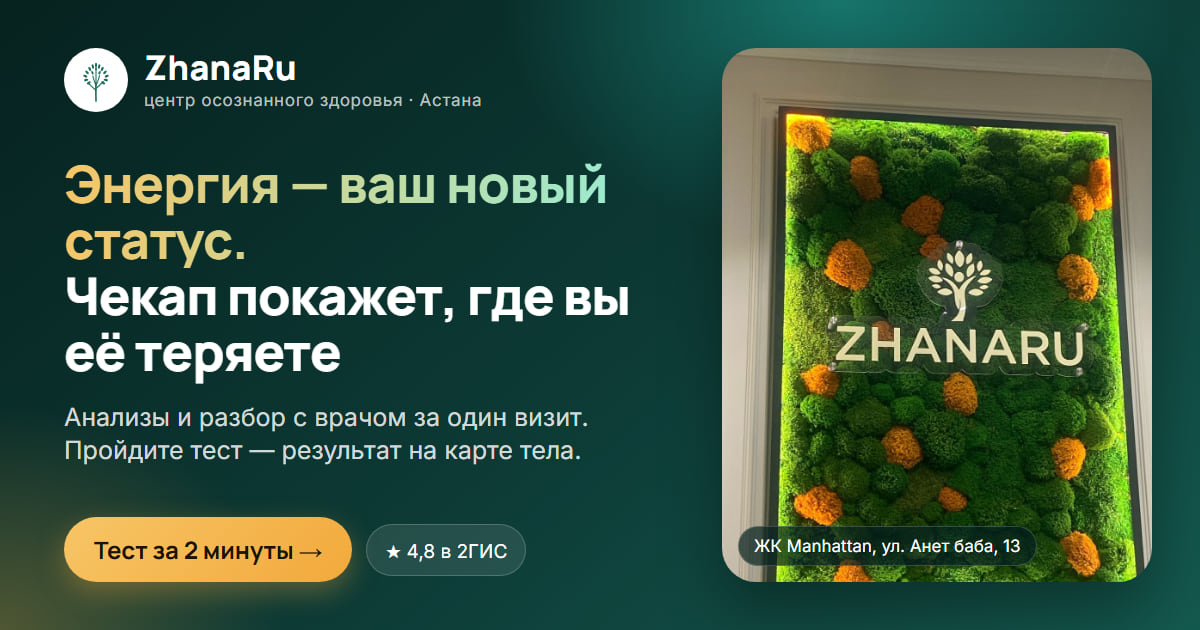
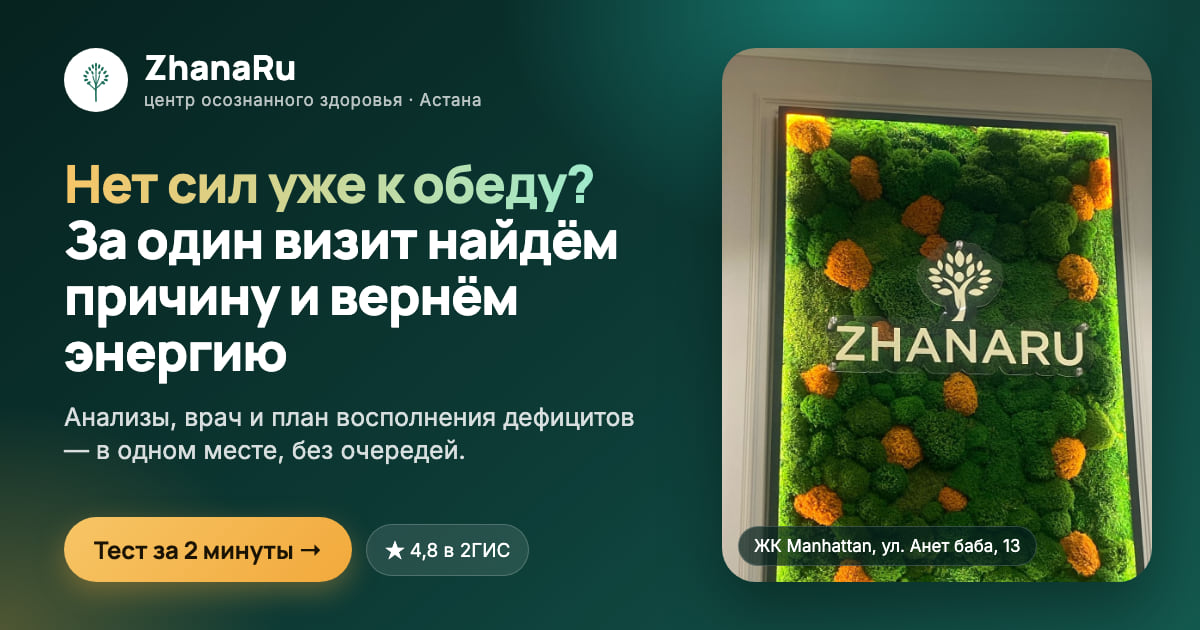
ZhanaRu: новая обложка для предпросмотра ссылки
JPG 1200×630 с новым заголовком первого экрана; ?v=2 в og:image,
чтобы Facebook и мессенджеры сбросили старую картинку из кеша.

diff --git a/Zhanaru/web/src/content/site.ts b/Zhanaru/web/src/content/site.ts
@@ -60,8 +60,9 @@ export const site = {
   verification: { google: '', yandex: '' },
 
   /** Обложка для предпросмотра ссылки (JPG 1200×630, scripts/make-og.mjs). */
-  ogImage: '/og/zhanaru-cover.jpg',
-  ogImageAlt: 'ZhanaRu, Астана: «Энергия — ваш новый статус. Чекап покажет, где вы её теряете»',
+  // ?v= меняется вместе с картинкой, чтобы Facebook и мессенджеры не показывали старую из кеша
+  ogImage: '/og/zhanaru-cover.jpg?v=2',
+  ogImageAlt: 'ZhanaRu, Астана: «Нет сил уже к обеду? За один визит найдём причину и вернём энергию»',
 
   /** ID счётчиков. Пустая строка — счётчик не загружается. */
   analytics: { ga4: '', metaPixel: '', yandexMetrika: '' },
